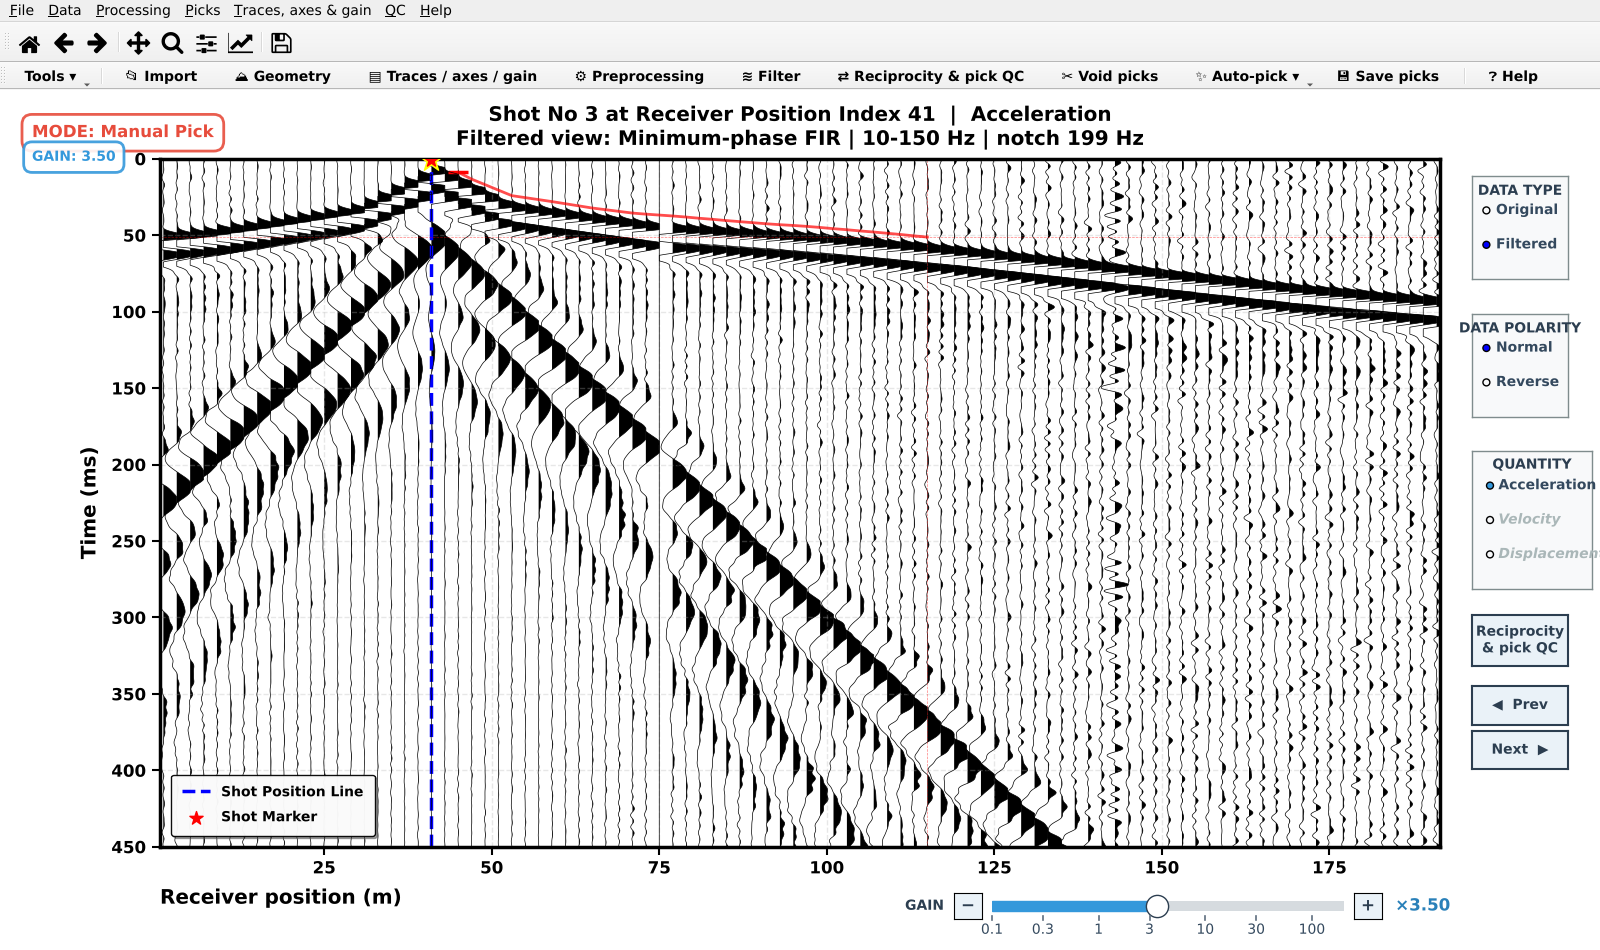
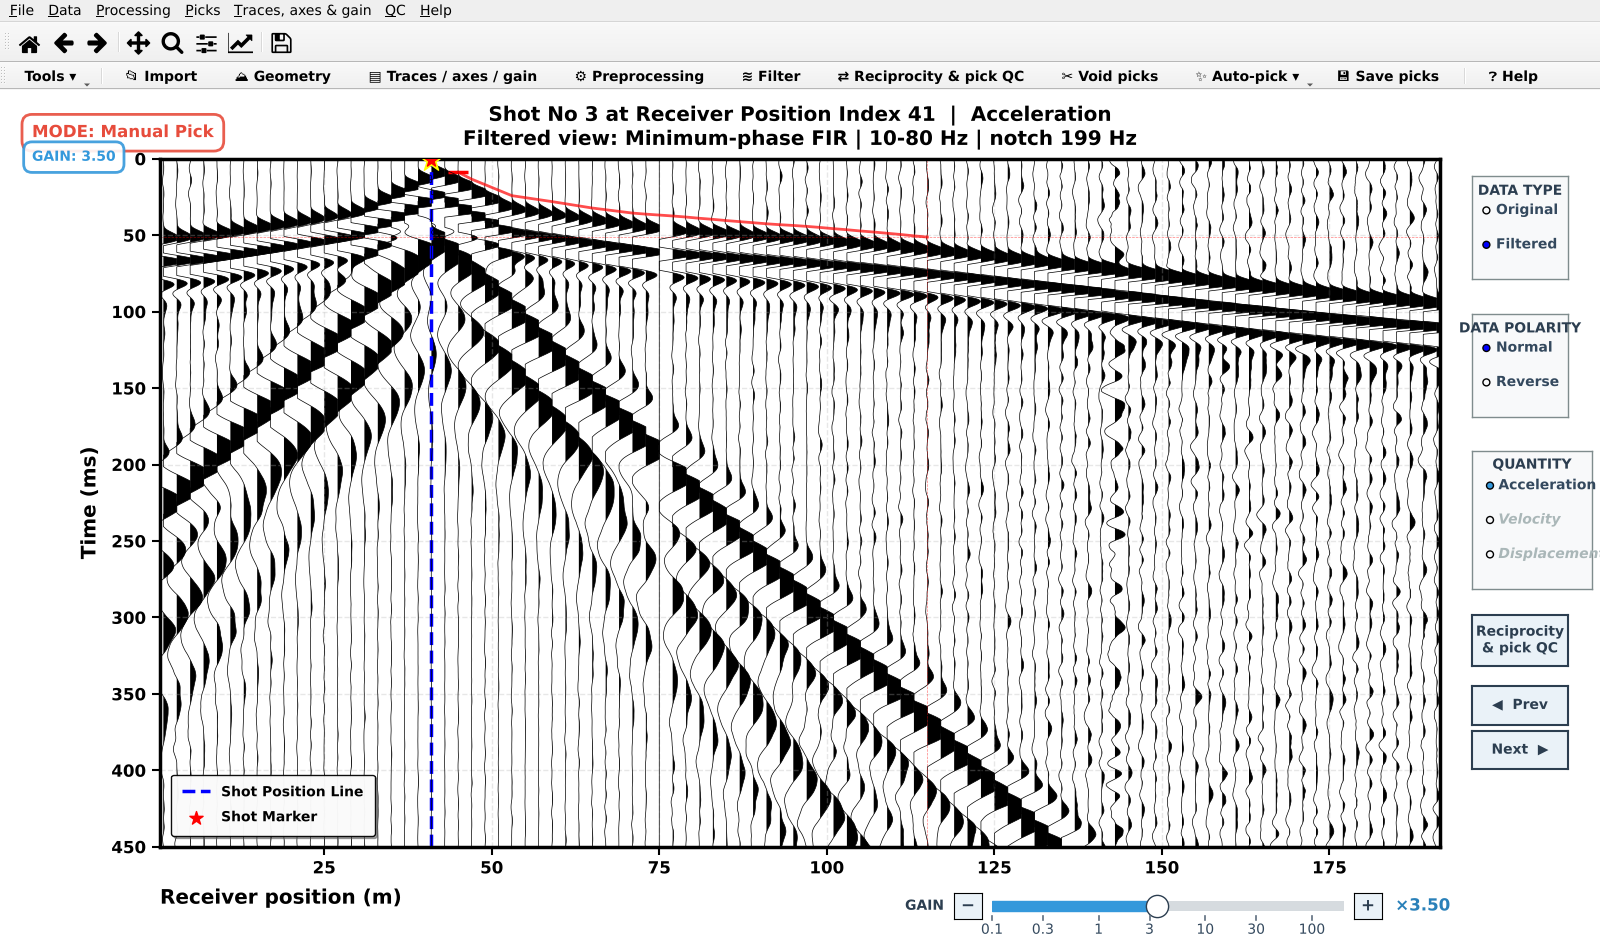
v14: original filter configuration restored as default
Default filter back to the original configuration: minimum-phase FIR 10-80 Hz (transitions 20/40 Hz, 131/51 taps), causal notch 199 Hz Q 8.
Timing presets renamed: Original (default), Wider band (10-150 Hz), No high-cut.

Claude-Session: https://claude.ai/code/session_01K4okq2dQVq4QJb4gGJdmLh

diff --git a/manual/manual.html b/manual/manual.html
@@ -17,7 +17,7 @@ table.note { background-color: #fef9e7; margin-top: 8px; margin-bottom: 10px; }
 a { color: #1f618d; }
 </style></head><body>
 <h1 id="top">First-Arrival Picker: User Manual</h1>
-<p class="sub">Version 13 · first-break picking of SEG-Y shot gathers for refraction tomography</p>
+<p class="sub">Version 14 · first-break picking of SEG-Y shot gathers for refraction tomography</p>
 
 <p>This manual explains every window of the picker, in the order you use them. Every figure was made with the picker itself on a synthetic survey (<a href="#example-data">About the example data</a>), so the numbers in the figures can be checked against known true travel times. Inside the picker, <b>Help &gt; User manual</b> (F1) opens this manual beside the canvas. F1 in any window opens the section for that window. <b>Help &gt; Open the PDF manual</b> opens this same text as a PDF.</p>
 
@@ -215,8 +215,8 @@ a { color: #1f618d; }
 <li><i>Zero-phase FIR</i>: peaks stay put, but energy leaks before the onset, so picks come out early.</li>
 <li><i>IIR Butterworth</i>: causal, or zero-phase with a forward-backward pass.</li>
 </ul></li>
-<li><b>Low-cut / high-cut</b> with transition widths, and <b>notch filters</b> (frequency and Q in a table: <i>Add notch</i>, <i>Remove selected</i>). The default is 10–150 Hz with a notch at 199 Hz for the accelerometer resonance.</li>
-<li><b>Timing presets</b>: <i>No delay</i> (low-cut only), <i>Small delay</i> (10–150 Hz, the default), <i>Strong</i> (10–80 Hz). The <b>timing line</b> reports, on the preview shot, how far the filter moves the first-break onsets and the first peaks, and the impulse delay.</li>
+<li><b>Low-cut / high-cut</b> with transition widths, and <b>notch filters</b> (frequency and Q in a table: <i>Add notch</i>, <i>Remove selected</i>). The default is the original configuration: minimum-phase 10–80 Hz (transitions 20 and 40 Hz, 131 and 51 taps) with a notch at 199 Hz (Q 8) for the accelerometer resonance.</li>
+<li><b>Timing presets</b>: <i>Original (default)</i> (10–80 Hz), <i>Wider band</i> (10–150 Hz, the v9–v13 default: more high-frequency detail, slightly earlier peaks), <i>No high-cut</i> (low-cut only). The <b>timing line</b> reports, on the preview shot, how far the filter moves the first-break onsets and the first peaks, and the impulse delay.</li>
 </ul>
 <p class="fig"><img src="images/filter_response.png" data-w="1600" alt="Filter response"><br><span class="cap">Figure 17. Response tab: realized amplitude response, impulse response and the spectrum of the shot before and after.</span></p>
 <p class="fig"><img src="images/filter_preview.png" data-w="1600" alt="Filter preview"><br><span class="cap">Figure 18. Data preview tab: the shot before (top) and after (bottom) the filter, with the shared gain control.</span></p>
@@ -268,17 +268,17 @@ a { color: #1f618d; }
 </ul>
 <p class="fig"><img src="images/canvas_autopicks.png" data-w="1600" alt="Automatic picks on the canvas"><br><span class="cap">Figure 23. Automatic picks (MER, velocity, filtered) on the canvas. They are ordinary picks: edit, delete or re-pick them by hand.</span></p>
 <h3 id="detector-choice">Choosing a detector</h3>
-<p>Because the example survey has known first-arrival times, the detectors can be scored. All results use velocity, filtered, with the default post-processing on all 11 shots (1056 receiver–shot pairs). The error is pick minus true time.</p>
+<p>Because the example survey has known first-arrival times, the detectors can be scored. All results use velocity, filtered with the default 10–80 Hz filter, with the default post-processing on all 11 shots (1056 receiver–shot pairs). The error is pick minus true time.</p>
 <table class="grid" border="1" cellspacing="0" cellpadding="4" width="100%">
 <tr><th>Detector (velocity, filtered)</th><th>Picks kept</th><th>Median error</th><th>90 % of |error| below</th></tr>
-<tr><td>Classic STA/LTA, defaults</td><td>467</td><td>+3.6 ms</td><td>8.3 ms</td></tr>
-<tr><td>Classic STA/LTA, trigger level 4</td><td>799</td><td>+4.0 ms</td><td>5.0 ms</td></tr>
-<tr><td><b>MER, defaults</b></td><td><b>970</b></td><td><b>+3.9 ms</b></td><td><b>4.9 ms</b></td></tr>
-<tr><td>Shiv's original</td><td>273</td><td>+3.0 ms</td><td>52 ms</td></tr>
+<tr><td>Classic STA/LTA, defaults</td><td>521</td><td>+3.2 ms</td><td>5.7 ms</td></tr>
+<tr><td>Classic STA/LTA, trigger level 4</td><td>797</td><td>+3.8 ms</td><td>5.2 ms</td></tr>
+<tr><td><b>MER, defaults</b></td><td><b>809</b></td><td><b>+3.5 ms</b></td><td><b>4.7 ms</b></td></tr>
+<tr><td>Shiv's original</td><td>353</td><td>+3.0 ms</td><td>7.3 ms</td></tr>
 </table>
 <ul>
 <li>On this survey MER keeps the most picks. The defaults were tuned on a field line, so try two detectors on a few shots before applying to all.</li>
-<li>The median error of +3 to +4 ms is mostly the delay of the 10–150 Hz filter. On acceleration the same detectors are about 1 ms closer. For the final times, check difficult picks on the <i>Original</i> view.</li>
+<li>The median error of +3 to +4 ms is mostly the delay of the minimum-phase 10–80 Hz filter. For the final times, check difficult picks on the <i>Original</i> view.</li>
 </ul>
 
 <h2 id="qc">12. Reciprocity and pick QC</h2>
@@ -397,7 +397,7 @@ a { color: #1f618d; }
 <tr><td>Import refuses a file.</td><td>Different sample interval, or unreadable SEG-Y. The table says which; remove it and import the rest.</td></tr>
 <tr><td>An SGT file is refused when continuing.</td><td>It does not match the imported geometry (less than 90 % of rows fit). Check that it belongs to these files and this geometry.</td></tr>
 <tr><td>Automatic picking keeps few picks.</td><td>Try MER or a higher trigger level, check the velocity window, and look at <i>Picks vs offset</i> to see which step removes them (<a href="#detector-choice">section 11</a>).</td></tr>
-<tr><td>Picks look a few ms late on filtered data.</td><td>Filter delay: see the timing line in the filter designer; use <i>Small delay</i> or <i>No delay</i>, and check on <i>Original</i>.</td></tr>
+<tr><td>Picks look a few ms late on filtered data.</td><td>Filter delay: see the timing line in the filter designer; try <i>Wider band</i> or <i>No high-cut</i>, and check on <i>Original</i>.</td></tr>
 <tr><td>Help says the manual was not found.</td><td>Keep the <code>manual</code> folder (manual.html, images, PDF) next to the .py files.</td></tr>
 </table>
 
@@ -412,6 +412,7 @@ a { color: #1f618d; }
 <tr><td>v11</td><td>Automatic picking (STA/LTA, MER, original routine; AIC; post-processing) with live preview; shot spectra.</td></tr>
 <tr><td>v12</td><td>File menu with import from the picker; trace ranges; gain in every preview; spectra corrected for the sensor response.</td></tr>
 <tr><td>v13</td><td>This manual: built into the picker (Help menu, F1, side panel) and as a PDF.</td></tr>
+<tr><td>v14</td><td>Default filter back to the original configuration (minimum-phase 10–80 Hz, notch 199 Hz); 10–150 Hz kept as the <i>Wider band</i> preset.</td></tr>
 </table>
 
 <p class="sub">Built 16 November 2026. The same text is in First_Arrival_Picker_User_Manual.pdf.</p>

diff --git a/picker/filter_designer.py b/picker/filter_designer.py
@@ -41,9 +41,10 @@ FILTER_TYPES = {
 
 TYPE_HELP = {
     'minphase_fir': ("Causal: nothing arrives before the true onset, but every causal band-limit "
-                     "delays the energy. The HIGH-CUT sets the delay (Line 101: 80 Hz -> first "
-                     "peaks +12 ms, 150 Hz -> +5 ms, low-cut alone -> 0 ms). Pick the first "
-                     "departure; the timing line below is measured on this shot."),
+                     "delays the energy. On Line 101 (all shots) first-break onsets move about "
+                     "+2 ms with either the 80 Hz or the 150 Hz high-cut; the 80 Hz high-cut gives a "
+                     "smoother, later wavelet. Pick the first departure; the timing line below is "
+                     "measured on this shot."),
     'zerophase_fir': ("Peaks and troughs stay put, but the wavelet becomes symmetric: low-level "
                       "energy appears BEFORE the true onset, so first-break picks come out early."),
     'iir': ("Butterworth. Causal (minimum phase) by default; tick zero-phase for a "
@@ -66,8 +67,8 @@ class FilterParams:
     lowcut_order: int = 4                  # IIR only
 
     highcut_on: bool = True                # low-pass stage
-    highcut_hz: float = 150.0              # v9: 150 Hz (was 80): peaks +5 ms instead of +12 ms
-    highcut_transition_hz: float = 60.0    # FIR only
+    highcut_hz: float = 80.0               # v14: back to the original 80 Hz default (v9-v13: 150 Hz)
+    highcut_transition_hz: float = 40.0    # FIR only
     highcut_taps: int = 51                 # FIR only (odd)
     highcut_order: int = 4                 # IIR only
 
@@ -401,18 +402,19 @@ def timing_summary(stages, fs, before=None, after=None):
 
 # presets for the designer: (button text, tooltip, settings)
 TIMING_PRESETS = [
-    ('No delay', 'Minimum-phase low-cut 10 Hz only (+ notch): Line 101 onsets 0 ms, peaks 0 ms; '
-                 'high-frequency noise stays', dict(filter_type='minphase_fir', lowcut_on=True,
-                 lowcut_hz=10.0, lowcut_transition_hz=20.0, lowcut_taps=131, highcut_on=False)),
-    ('Small delay', 'Minimum-phase 10-150 Hz (+ notch): Line 101 onsets +2 ms, peaks +5 ms',
-     dict(filter_type='minphase_fir', lowcut_on=True, lowcut_hz=10.0, lowcut_transition_hz=20.0,
-          lowcut_taps=131, highcut_on=True, highcut_hz=150.0, highcut_transition_hz=60.0,
-          highcut_taps=51)),
-    ('Strong', 'Minimum-phase 10-80 Hz (+ notch), the old default: Line 101 onsets +3 ms '
-               '(up to +11), peaks +12 ms; cleanest far offsets',
+    ('Original (default)', 'Minimum-phase 10-80 Hz (+ notch 199 Hz), the original configuration and '
+                           'the default again since v14',
      dict(filter_type='minphase_fir', lowcut_on=True, lowcut_hz=10.0, lowcut_transition_hz=20.0,
           lowcut_taps=131, highcut_on=True, highcut_hz=80.0, highcut_transition_hz=40.0,
           highcut_taps=51)),
+    ('Wider band', 'Minimum-phase 10-150 Hz (+ notch): the v9-v13 default; first peaks about 3 ms '
+                   'earlier, more high-frequency detail and noise',
+     dict(filter_type='minphase_fir', lowcut_on=True, lowcut_hz=10.0, lowcut_transition_hz=20.0,
+          lowcut_taps=131, highcut_on=True, highcut_hz=150.0, highcut_transition_hz=60.0,
+          highcut_taps=51)),
+    ('No high-cut', 'Minimum-phase low-cut 10 Hz only (+ notch): least delay; high-frequency noise stays',
+     dict(filter_type='minphase_fir', lowcut_on=True, lowcut_hz=10.0, lowcut_transition_hz=20.0,
+          lowcut_taps=131, highcut_on=False)),
 ]
 
 

diff --git a/picker/first_arrival_picker.py b/picker/first_arrival_picker.py
@@ -815,9 +815,9 @@ FILTER_PARAMS = fdz.FilterParams(
     iir_zero_phase=False,             # IIR only: True = forward-backward (zero phase)
 
     lowcut_on=True,  lowcut_hz=10.0,  lowcut_transition_hz=20.0,  lowcut_taps=131,  lowcut_order=4,
-    # v9: high-cut 150 Hz (was 80): on Line 101 first peaks move +5 ms instead of +12 ms,
-    # onsets +2 ms (middle half +1..+5) instead of +3 (0..+11). See the designer's timing presets.
-    highcut_on=True, highcut_hz=150.0, highcut_transition_hz=60.0, highcut_taps=51,  highcut_order=4,
+    # v14: back to the original configuration, 10-80 Hz (v9-v13 used 150 Hz / 60 Hz transition;
+    # it is still one click away: filter designer > timing preset 'Wider band').
+    highcut_on=True, highcut_hz=80.0, highcut_transition_hz=40.0, highcut_taps=51,  highcut_order=4,
 
     notch_on=True,
     notches=[[199.0, 8.0]],           # [[freq Hz, Q], ...]
@@ -2369,7 +2369,7 @@ def open_pdf_manual():
 
 def show_about():
     QMessageBox.about(None, 'About the first-arrival picker',
-                      '<b>First-arrival picker</b> for refraction tomography (v13)<br><br>'
+                      '<b>First-arrival picker</b> for refraction tomography (v14)<br><br>'
                       'Manual and automatic first-break picking of SEG-Y shot gathers, with '
                       'preprocessing, filtering, reciprocity QC and export to a three-column '
                       'S G T file for travel-time tomography.<br><br>'
